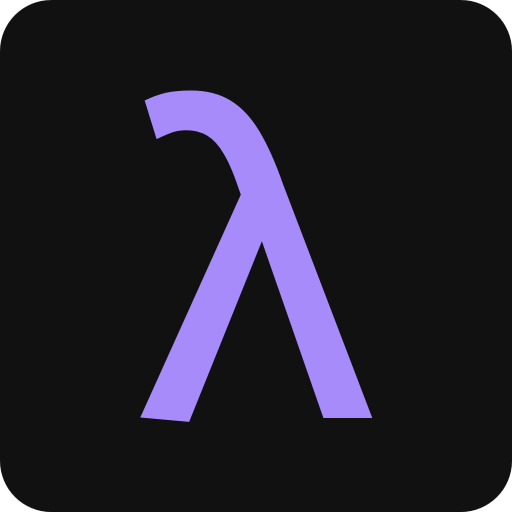
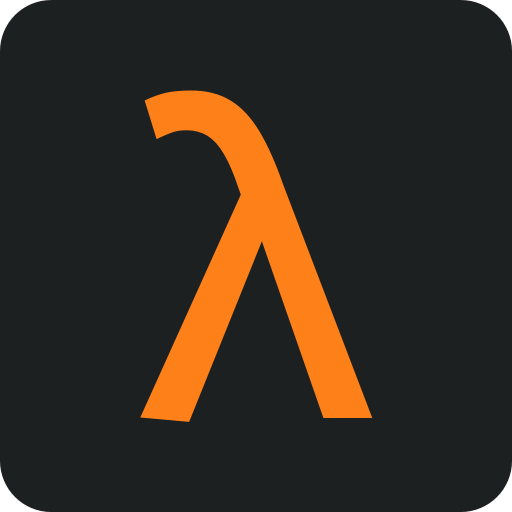
feat: gruvbox hard-contrast theme + long-form reading pass
Palette:
- dark = gruvbox dark hard (#1d2021 bg, #ebdbb2 fg), light = gruvbox
  light hard (#f9f5d7 bg, #3c3836 fg); single accent = gruvbox orange
  (#fe8019 dark / #d65d0e light)
- badge/label colours now theme vars (--c-green/--c-blue/--c-yellow,
  gruvbox hues per theme) with color-mix tints; no hardcoded badge
  colours remain in index/projects/log
- Shiki: gruvbox-dark-hard / gruvbox-light-hard
- favicon set recoloured to gruvbox (same Source Code Pro glyph),
  links bumped to ?v=5

Reading:
- blog post bodies (.post-body) set in Source Serif 4 at 1.13em/1.7
  with text-wrap: pretty; all chrome, headers, and code stay mono
- base font size 15px -> 16px site-wide

Changed region(s): [[0.2812, 0.1562, 0.7188, 0.8438]]

diff --git a/src/styles/global.css b/src/styles/global.css
@@ -1,28 +1,35 @@
-@import url('https://fonts.googleapis.com/css2?family=JetBrains+Mono:ital,wght@0,100..800;1,100..800&display=swap');
+@import url('https://fonts.googleapis.com/css2?family=JetBrains+Mono:ital,wght@0,100..800;1,100..800&family=Source+Serif+4:ital,opsz,wght@0,8..60,400..700;1,8..60,400..700&display=swap');
 
 :root {
-	--bg:          #0d0d0d;
-	--surface:     #111111;
-	--border:      #1e1e1e;
-	--text:        #e2e2e2;
-	--text-muted:  #888888;
-	--accent:      #a78bfa;
-	--accent-dim:  #7c5cbf;
+	--bg:          #1d2021;
+	--surface:     #282828;
+	--border:      #3c3836;
+	--text:        #ebdbb2;
+	--text-muted:  #a89984;
+	--accent:      #fe8019;
+	--accent-dim:  #d65d0e;
+	--c-green:     #b8bb26;
+	--c-blue:      #83a598;
+	--c-yellow:    #fabd2f;
 	--font-mono:   'JetBrains Mono', 'Fira Code', 'Cascadia Code', monospace;
-	--box-shadow:  0 0 0 1px var(--border), 0 4px 24px rgba(167, 139, 250, 0.04);
-	--header-bg:   rgba(17, 17, 17, 0.95);
+	--font-text:   'Source Serif 4', Georgia, 'Times New Roman', serif;
+	--box-shadow:  0 0 0 1px var(--border), 0 4px 24px color-mix(in srgb, var(--accent) 5%, transparent);
+	--header-bg:   rgba(29, 32, 33, 0.95);
 }
 
 html[data-theme='light'] {
-	--bg:          #faf9f7;
-	--surface:     #ffffff;
-	--border:      #e2e0dc;
-	--text:        #24242a;
-	--text-muted:  #6b6b74;
-	--accent:      #6d28d9;
-	--accent-dim:  #5b21b6;
-	--box-shadow:  0 0 0 1px var(--border), 0 4px 24px rgba(109, 40, 217, 0.06);
-	--header-bg:   rgba(250, 249, 247, 0.92);
+	--bg:          #f9f5d7;
+	--surface:     #fbf1c7;
+	--border:      #d5c4a1;
+	--text:        #3c3836;
+	--text-muted:  #7c6f64;
+	--accent:      #d65d0e;
+	--accent-dim:  #af3a03;
+	--c-green:     #79740e;
+	--c-blue:      #076678;
+	--c-yellow:    #b57614;
+	--box-shadow:  0 0 0 1px var(--border), 0 4px 24px color-mix(in srgb, var(--accent) 8%, transparent);
+	--header-bg:   rgba(249, 245, 215, 0.93);
 }
 
 /* Shiki dual-theme code blocks (config emits --shiki-light/--shiki-dark vars) */
@@ -76,7 +83,7 @@ body {
 	padding: 0;
 	background-color: var(--bg);
 	color: var(--text);
-	font-size: 15px;
+	font-size: 16px;
 	line-height: 1.75;
 	word-wrap: break-word;
 	overflow-wrap: break-word;
@@ -168,6 +175,19 @@ blockquote {
 	font-style: italic;
 }
 
+/* Long-form reading: serif body for blog posts only (chrome stays mono) */
+.post-body {
+	font-family: var(--font-text);
+	font-size: 1.13em;
+	line-height: 1.7;
+}
+.post-body p {
+	text-wrap: pretty;
+}
+.post-body ul, .post-body ol {
+	line-height: 1.7;
+}
+
 /* Terminal/markdown-style section headers inside prose pages & posts */
 .prose h2 {
 	font-family: var(--font-mono);
@@ -255,7 +275,7 @@ input, textarea {
 
 .project-card:hover {
 	border-color: var(--accent);
-	box-shadow: 0 0 12px rgba(167, 139, 250, 0.08);
+	box-shadow: 0 0 12px color-mix(in srgb, var(--accent) 8%, transparent);
 }
 
 .project-card h3 {
